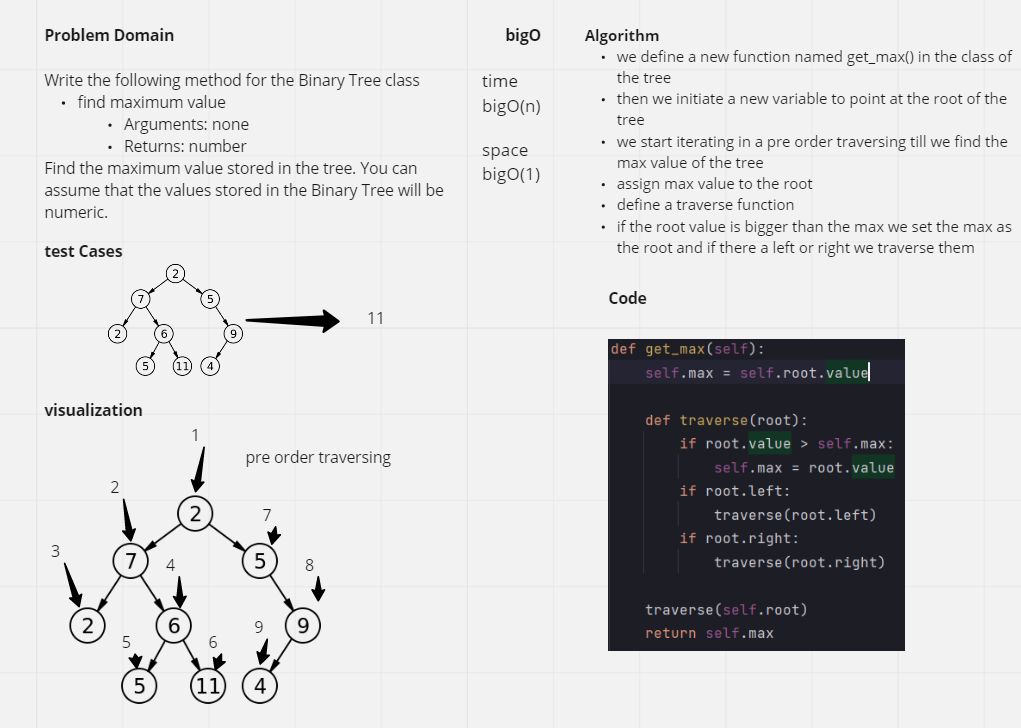
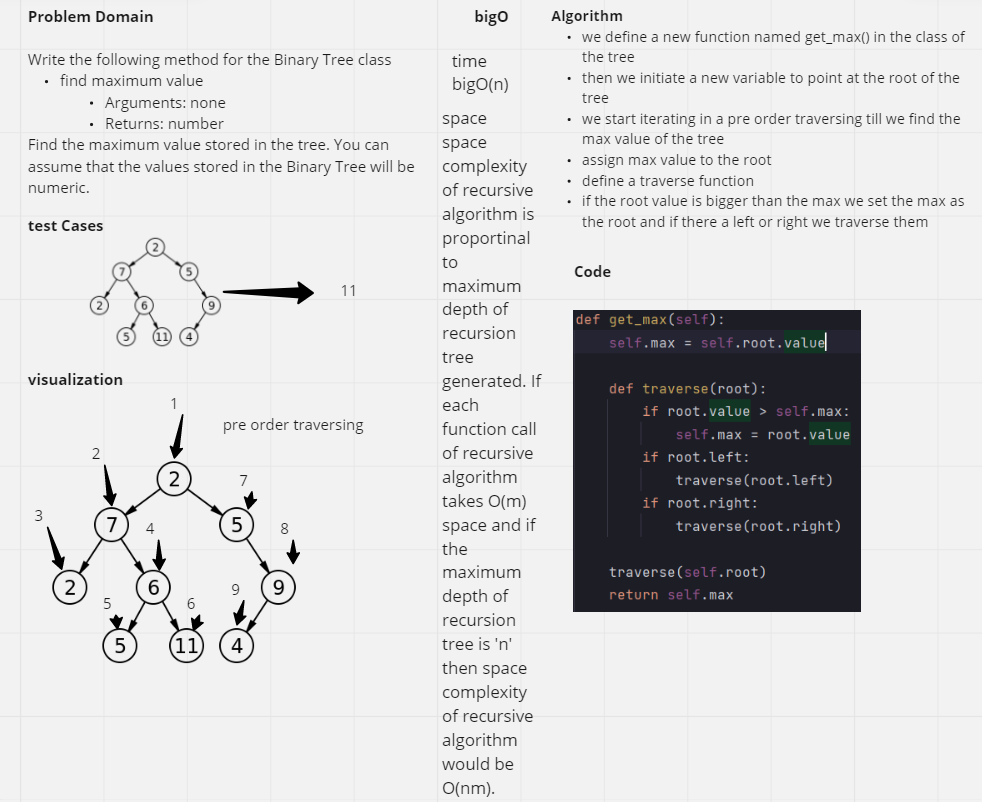
fixed

diff --git a/treeMax/tree_max.py b/treeMax/tree_max.py
@@ -51,6 +51,20 @@ class Tree:
         traverse(self.root)
         return arr
 
+    def get_max(self):
+        self.max = self.root.value
+
+        def traverse(root):
+            if root.value > self.max:
+                self.max = root.value
+            if root.left:
+                traverse(root.left)
+            if root.right:
+                traverse(root.right)
+
+        traverse(self.root)
+        return self.max
+
 
 class BinarySearchTree(Tree):
 
@@ -82,17 +96,3 @@ class BinarySearchTree(Tree):
                 if root.right is None:
                     return False
                 root = root.right
-
-    def get_max(self):
-        self.max = self.root.value
-
-        def traverse(root):
-            if root.value > self.max:
-                self.max = root.value
-            if root.left:
-                traverse(root.left)
-            if root.right:
-                traverse(root.right)
-
-        traverse(self.root)
-        return self.max

diff --git a/treeMax/tests/test_tree_max.py b/treeMax/tests/test_tree_max.py
@@ -3,7 +3,7 @@ import pytest
 from treeMax.tree_max import *
 
 def test_max_one():
-    tree = BinarySearchTree()
+    tree = Tree()
     tree.root = TNode(5)
     tree.root.right = TNode(10)
     tree.root.left = TNode(7)
@@ -17,7 +17,7 @@ def test_max_one():
 
 
 def test_max_two():
-    tree = BinarySearchTree()
+    tree = Tree()
     tree.root = TNode(-3)
     tree.root.right = TNode(0)
     tree.root.left = TNode(43)

diff --git a/treeMax/README.md b/treeMax/README.md
@@ -11,7 +11,7 @@ Find the maximum value stored in the tree. You can assume that the values stored
 ## Approach & Efficiency
 <!-- What approach did you take? Why? What is the Big O space/time for this approach? -->
 #### time : bigO(n)
-#### space : bigO(1)
+#### space : space complexity of recursive algorithm is proportinal to maximum depth of recursion tree generated. If each function call of recursive algorithm takes O(m) space and if the maximum depth of recursion tree is 'n' then space complexity of recursive algorithm would be O(nm).
 - Algorithm
 we define a new function named get_max() in the class of the tree
 then we initiate a new variable to point at the root of the tree
